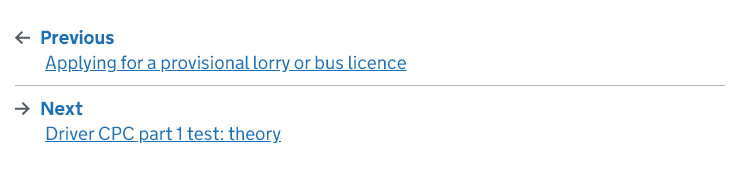
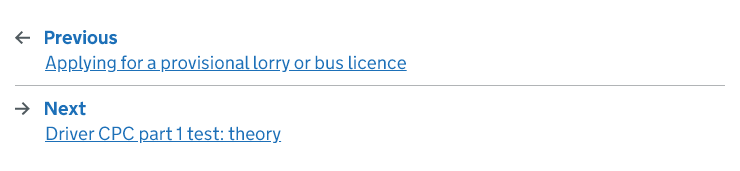
Fix link alignment for stacked Pagination components (fixes #255)

Changed region(s): [[0.0311, 0.1754, 0.1554, 0.2632], [0.0311, 0.5848, 0.1243, 0.6725]]

diff --git a/src/GovUk.Frontend.AspNetCore/HtmlGeneration/ComponentGenerator.Pagination.cs b/src/GovUk.Frontend.AspNetCore/HtmlGeneration/ComponentGenerator.Pagination.cs
@@ -216,7 +216,7 @@ namespace GovUk.Frontend.AspNetCore.HtmlGeneration
 
             return tagBuilder;
 
-            TagBuilder GeneratePreviousArrow()
+            IHtmlContent GeneratePreviousArrow()
             {
                 var svg = new TagBuilder("svg");
                 svg.AddCssClass("govuk-pagination__icon");
@@ -233,10 +233,14 @@ namespace GovUk.Frontend.AspNetCore.HtmlGeneration
 
                 svg.InnerHtml.AppendHtml(path);
 
-                return svg;
+                var builder = new HtmlContentBuilder();
+                builder.AppendHtml(svg);
+                builder.AppendHtml(" ");
+
+                return builder;
             }
 
-            TagBuilder GenerateNextArrow()
+            IHtmlContent GenerateNextArrow()
             {
                 var svg = new TagBuilder("svg");
                 svg.AddCssClass("govuk-pagination__icon");
@@ -253,7 +257,11 @@ namespace GovUk.Frontend.AspNetCore.HtmlGeneration
 
                 svg.InnerHtml.AppendHtml(path);
 
-                return svg;
+                var builder = new HtmlContentBuilder();
+                builder.AppendHtml(svg);
+                builder.AppendHtml(" ");
+
+                return builder;
             }
         }
     }
